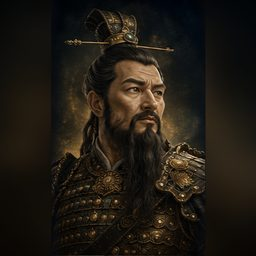
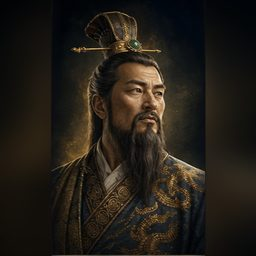
PORTRETY FINAL v2: poprawione zamiany braz<->zelazo (Grecy, Chinczycy) + komplet full/ — KANON + kopie 256px
Wg paczki Macieja 'najprosciej zaimplementowac wprost' — nadpisane bez porownywania,
zweryfikowane wzrokowo (Grecy-zelazo laury, Chinczycy-zelazo Qin Shi Huang).
Wejdzie do gry z deployem fali 3.

Claude-Session: https://claude.ai/code/session_01Fs7eokPtaxbQL7KGTXXeWS

Changed region(s): [[0.1875, 0.0312, 0.8125, 1.0], [0.6875, 0.3438, 0.75, 0.4062]]

diff --git a/docs/ux/claude-design/_dist/PORTRETY-ZELAZO-FINAL-v2-2026-07-23/brand-book/KANON/eksport/portraits-preview.html b/docs/ux/claude-design/_dist/PORTRETY-ZELAZO-FINAL-v2-2026-07-23/brand-book/KANON/eksport/portraits-preview.html
@@ -1,0 +1,57 @@
+<!DOCTYPE html>
+<html lang="pl">
+<head>
+<meta charset="utf-8">
+<title>Portrety władców — podgląd (1E)</title>
+<style>
+  body{margin:0;background:#0a0d14;color:#e8e0c8;font-family:'Segoe UI',Tahoma,sans-serif;padding:28px 36px}
+  h1{font-family:Georgia,serif;font-weight:600;font-size:22px;color:#e8d88a;margin:0 0 4px}
+  .sub{font-size:12px;color:#8a8070;margin-bottom:22px}
+  h2{font-family:Georgia,serif;font-weight:600;font-size:16px;color:#e8d88a;letter-spacing:.06em;margin:26px 0 14px;display:flex;align-items:center;gap:12px}
+  h2::after{content:"";flex:1;height:1px;background:rgba(232,216,138,.18)}
+  .grid{display:grid;grid-template-columns:repeat(5,1fr);gap:22px 16px;max-width:980px}
+  .cell{display:flex;flex-direction:column;align-items:center;gap:9px;text-align:center}
+  .med{width:112px;height:112px;border-radius:50%;overflow:hidden;border:2.5px solid #e8d88a;
+    box-shadow:0 0 18px rgba(232,216,138,.25),0 6px 16px rgba(0,0,0,.55),inset 0 0 0 1px rgba(0,0,0,.6);
+    background:#0a0d14}
+  .med img{width:100%;height:100%;object-fit:cover;display:block}
+  .med.you{border-color:#8fb6e0;box-shadow:0 0 18px rgba(58,106,208,.3),0 6px 16px rgba(0,0,0,.55)}
+  .med.foe{border-color:#e08a8a;box-shadow:0 0 18px rgba(200,64,64,.3),0 6px 16px rgba(0,0,0,.55)}
+  .nm{font-family:Georgia,serif;font-size:13px;color:#e8d88a}
+  .note{margin-top:30px;font-size:11.5px;color:#8a8070;max-width:820px;line-height:1.55;border-top:1px solid rgba(232,216,138,.14);padding-top:14px}
+  .note b{color:#c8b898}
+</style>
+</head>
+<body>
+<h1>Portrety władców — 15 cywilizacji</h1>
+<div class="sub">eksport/portraits/ · kwadraty pod medalion (kadr auto: 5% od góry komórki) · wersje pełne w portraits/full/ · mapa: portrait-map.json</div>
+
+<h2>Epoka Kamienia</h2>
+<div class="grid" id="g-kamien"></div>
+
+<h2>Epoka Brązu</h2>
+<div class="grid" id="g-braz"></div>
+
+<h2>Epoka Żelaza</h2>
+<div class="grid" id="g-zelazo"></div>
+
+<div class="note">
+<b>Obwódki medalionów:</b> w podglądzie wszystkie złote (neutralne). W grze kolor obwódki nadaje UI wg kontekstu: niebieska #3a6ad0 = Ty, czerwona #c84040 = wróg (pre-battle/bitwa), złota = dyplomacja/neutralna.<br>
+<b>Fallback:</b> brak portretu (epoka Antyku — TODO, czeka na arkusz) → medalion z ikoną cywilizacji wg civ-icon-map.json.
+</div>
+
+<script>
+var CIVS=[['grecy','Grecy'],['rzymianie','Rzymianie'],['chinczycy','Chińczycy'],['inkowie','Inkowie'],['zulusi','Zulusi'],['egipt','Egipt'],['sumer','Sumer'],['celtowie','Celtowie'],['germanie','Germanie'],['harappa','Harappa'],['hetyci','Hetyci'],['slowianie','Słowianie'],['babilonia','Babilonia'],['asyria','Asyria'],['fenicjanie','Fenicjanie']];
+['kamien','braz','zelazo'].forEach(function(ep){
+  var g=document.getElementById('g-'+ep);
+  CIVS.forEach(function(c,i){
+    var side = '';
+    var d=document.createElement('div');
+    d.className='cell';
+    d.innerHTML='<span class="med'+side+'"><img src="portraits/portrait-'+c[0]+'-'+ep+'.png" alt="'+c[1]+'"></span><span class="nm">'+c[1]+'</span>';
+    g.appendChild(d);
+  });
+});
+</script>
+</body>
+</html>

diff --git a/docs/ux/claude-design/_dist/PORTRETY-ZELAZO-FINAL-v2-2026-07-23/WYMIANA-UI-DESIGN.md b/docs/ux/claude-design/_dist/PORTRETY-ZELAZO-FINAL-v2-2026-07-23/WYMIANA-UI-DESIGN.md
@@ -1,0 +1,161 @@
+# DYSPOZYCJA — wymiana informacji
+
+Plik do dwustronnej komunikacji: **Agent / Maciej ⇄ Claude (projektant UI)**.
+Zasada: **append-only w sekcji „Log"** — nie nadpisujemy historii. Nowe polecenia dopisuj w „Dyspozycje przychodzące", ja odpowiadam w „Odpowiedzi / status".
+
+- Projekt: **The Game — Design System v1 · Painted Imperial (1E)**
+- Katalog roboczy: `brand-book/` (dokumenty + ekrany), `brand-book/eksport/` (tokeny, SVG, handoff)
+- **KANON (UX):** zapis WYŁĄCZNIE w `brand-book/`; status w `WYMIANA-UI-DESIGN.md`; nie tworzyć innych folderów; Maciej nie przenosi plików. Repo docelowe: `docs/ux/claude-design/01-propozycje-z-design/brand-book`.
+- Aktualizacja: 2026-07-01
+- **Protokół**: Maciej jest pośrednikiem. Gdy UX coś dopisze — Maciej mówi Claude **START**. Gdy Claude skończy — informuje Macieja, ten daje znać UX, by odczytał.
+
+---
+
+## 1. Status ogólny
+
+| Obszar | Stan |
+|--------|------|
+| Kierunek stylu | ✅ zatwierdzony: **1E** |
+| Brand Book v1 | ✅ gotowy |
+| Biblioteka ikon (Tier 1–5, 50 szt.) | ✅ gotowa |
+| Ekrany (menu → koniec) | ✅ gotowe |
+| Komponenty + Motion | ✅ gotowe |
+| Prototyp (klikalny przepływ) | ✅ podstawowy |
+| Eksport (tokeny + 14 SVG + HANDOFF) | ✅ gotowy |
+
+Wejście do przeglądu: `brand-book/The Game — Przegląd (1E).dc.html`
+
+## 2. Decyzje zamknięte (NIE zmieniać bez nowej dyspozycji)
+`1B` ciepłe złoto · `2C` Georgia+Segoe · `3C` ikony line w medalionach · `4C` przycisk outline/bevel · `5C` panel premium · `6C` chip + etykieta PL.
+Semantyka ikon: Praca=młotek · Żywność=kłos · Skarbiec=moneta · Nauka=sowa · Dyplomacja=pergamin+pióro · Porządek=waga · Zdrowie=kaduceusz · Bonus=prezent+gwiazda · Pokój=gołąb.
+
+## 3. Do zrobienia (backlog — priorytet malejąco)
+- [ ] Wariant **porażki** na ekranie końca gry
+- [ ] Domknięcie hubu: kafelki dla Kreator Kroki / Walka Warianty / Motion
+- [ ] Dokończenie linków prototypu (Dyplomacja→HUD, banery miast→Miasto)
+- [ ] Ujednolicenie ikony dyplomacji (HUD ⇄ biblioteka)
+- [ ] Eksport SVG Tier 3–5
+- [ ] Brand Book → PDF
+- [ ] Ekrany dodatkowe: badania (drzewko), wojsko (lista armii), handel, pauza/opcje
+
+## 4. Pytania otwarte (czekają na decyzję)
+- (brak — dopisz tutaj)
+
+---
+
+## 5. Dyspozycje przychodzące (od Agenta / Macieja)
+> Dopisuj nowe polecenia na górze, z datą. Format: `- [DATA] treść`
+
+- [2026-07-01] **KANON (UX):** zapis tylko w `brand-book/` (eksport `brand-book/eksport/`), status w `WYMIANA-UI-DESIGN.md`, nie tworzyć innych folderów, Maciej nie przenosi plików.
+
+## 6. Odpowiedzi / status (od Claude)
+> Odpowiadam pod każdą dyspozycją, z datą i statusem (przyjęte / w toku / zrobione).
+
+- [2026-07-23] **Zrobione: DRZEWKO v1.1 (werdykt Macieja).** Krawędzie usunięte W CAŁOŚCI (klatki A i C — zero linii/strzałek/mostków, badge i legenda krawędzi zdjęte); zależności wyłącznie opisowo (węzeł + karta węzła); „Ścieżka do X" działa na węzłach (podświetlenie łańcucha AND, reszta wygaszona). Wariant „kotwice AND" — zaniechany zgodnie z decyzją. Paczka `_dist/DRZEWKO-TECH-v1.1-2026-07-23` zawiera też: ponownie KANON-SYNC-6 (6 plików kanonu — poprzednio nie dojechały) oraz **STANDALONE inline** drzewka (React/Babel wbudowane — działa za proxy, bez unpkg).
+
+- [2026-07-23] **Zrobione: paczka DO-DESIGN-2026-07-23 (odpowiedź).** Zlecenie 1: PRE-BATTLE nakładka → kanon `.dc.html` (3 klatki: atak w polu / atak na miasto / obrona; twarde zasady zachowane: teren obowiązkowy, mapa czytelna — panele ~75%+blur, tylko realne akcje z preBattle.ts / cityAttackChoice.ts, obrona bez Wycofaj). Zlecenie 2: **eksport/ dosłany w paczce** (tokens.css/json · motion.css · icons/ · icon-mapy). Paczka: `_dist/PREBATTLE-TW-v1.1-2026-07-23`.
+
+- [2026-07-23] **Zrobione: DYPLOMACJA panel negocjacji v1.1 → KANON** (zatwierdzenie Macieja). Szczegóły w logu; paczka: `_dist/DYPLOMACJA-v1.1-2026-07-23`.
+- [2026-07-23] **Zrobione: POLE BITWY — TW v5.** 6 klatek w `brand-book/KANON/mockupy/The Game - C06 Pole bitwy odswiezenie (1E).dc.html`; kanon zaktualizowany (CANON.md); nota dla integratora: `brand-book/DESIGN-do-UI_POLE-BITWY-TW-v5.md`.
+- [2026-07-01] Utworzono ten plik dyspozycji. Czekam na polecenia.
+- [2026-07-01] **Do Agenta UX:** Cześć. Design System **1E (Painted Imperial)** jest gotowy — Brand Book, 50 ikon (Tier 1–5), komplet ekranów (menu→koniec), komponenty, motion, eksport (tokeny + 14 SVG + HANDOFF). Wszystko w `brand-book-1E/`, wejście: `The Game — Przegląd (1E).dc.html`. Backlog w sekcji 3. Pisz dyspozycje w sekcji 5 — odpowiadam tutaj.
+- [2026-07-01] **Przyjęte: KANON.** Ścieżki w projekcie zaktualizowane do `brand-book/`. Uwaga techniczna: nie mogę zapisywać wprost na dysk `C:\` — zapisuję w projekcie. Żeby pliki lądowały w kanonie bez ręcznego przenoszenia potrzebny **GitHub** (commit → `git pull`). Do decyzji Macieja/UX.
+
+---
+
+## 7. Log zmian (append-only)
+- 2026-07-23 · **PORTRETY — medaliony z obwódką 1E** ✅ — nowy wariant `eksport/portraits/medaliony/portrait-{civ}-{epoka}-medalion.png` (45×: kamien/braz/zelazo × 15 civ): koło na przezroczystym tle, winieta przy krawędzi, złota obwódka kanonu (#6a5212 rant · #e8d88a pierścień · akcent #f4e6a8). Kwadraty = surowiec pod obwódki kontekstowe UI; medaliony = gotowe do wstawienia. Dołożone do paczki PORTRETY-ZELAZO FINAL.
+- 2026-07-23 · **PORTRETY — korekta Macieja: swap Brąz↔Żelazo dla Greków i Chińczyków** ✅ — zamienione medaliony i wersje full (nowe full odtworzone 1:1 z arkuszy źródłowych); mapa bez zmian (te same ścieżki). Paczka nakładkowa: `_dist/PORTRETY-SWAP-2026-07-23` (8 PNG — nadpisać po wgraniu PORTRETY-ZELAZO).
+- 2026-07-23 · **PORTRETY ŻELAZA** (Zlecenie 6, część 1/2) ✅ — arkusz Gemini od Macieja pocięty 1:1 jak Kamień/Brąz (poz. 2 = Rzymianie, potwierdzone): 15× medalion 418×418 (boki wtopione, nakrycia głów całe) + 15× full 251×418; `portrait-map.json`: klucz `zelazo` wypełniony, epoka `antyk` dopisana (null — czeka na arkusz, część 2/2); `portraits-preview.html`: trzeci rząd. Paczka: `_dist/PORTRETY-ZELAZO-2026-07-23`.
+- 2026-07-23 · **IKONY 32 TECHNOLOGII** (Zlecenie 7) ✅ — komplet: `eksport/icons/tech/tech-<slug>.svg` (32 szt., line-art 1E, stroke currentColor, viewBox 24, jak icons/units) + `eksport/tech-icon-map.json` (klucz = id z tech.json, pole name = nazwa PL) + `eksport/tech-icons-preview.html`. Użycie: węzły drzewka + panel badań. Paczka: `_dist/TECH-IKONY-32-2026-07-23`. · Do paczki CUDA-SWIATA-v1 dołożony STANDALONE (wymóg proxy).
+- 2026-07-23 · **CUDA ŚWIATA — galeria Antyku v1** (Zlecenie 4, TURA 2) — nowy ekran: 19 cudów 1:1 z `gra/data/wonders.json` w pasmach epoki wejścia (Kamień 2 · Brąz 9 · Żelazo 8), dostęp E/R, wszystkie stany (dostępny · zablokowany-brak-techa · w budowie z postępem · nasz ✓ [not. ukοńczenia] · przepadł · ekskluzywny-cudzy · zbudowany-cudzy); klatka B: karta cudu ×3 stany (koszt Pracy, tury, wymogi ✓/✗, efekty ×każde-miasto, reguła atrakcji po Średniowieczu); klatka C: powiadomienia nasz-vs-cudzy (racing przepada). Bez emoji, tekstowe efekty. Plik: `KANON/mockupy/The Game - Cuda swiata v1 (1E).dc.html`. Parkowane ep.4+ poza galerią.
+- 2026-07-23 · **DRZEWKO TECHNOLOGII — SIATKA v1.1** ✅ KANON — werdykt Macieja: krawędzie NIECZYTELNE → usunięte wszystkie linie/strzałki/mostki + badge przecięć + legenda krawędzi; drzewko = siatka węzłów w pasmach epok, zależności OPISOWO (powody blokad na węzłach, AND ✓/✗ na karcie węzła); ścieżka do X = podświetlenie węzłów. Karty węzłów BEZ ikon epok — tylko nazwa odkrycia (uwaga Macieja; docelowo, osobnym zleceniem: ikona per technologia). Plik: `KANON/mockupy/The Game - Drzewko technologii siatka v1.1 (1E).dc.html`; graf v1 = stare. + STANDALONE inline (vendored runtime w jednym pliku) na problem proxy/unpkg.
+- 2026-07-23 · **DRZEWKO TECHNOLOGII — GRAF v1** (Zlecenie 3, TURA 2) — nowy ekran grafu całego drzewa: 32 technologie 1:1 z `gra/data/tech.json` (oś liniowa Poziom 1–9, pasma Kamień|Brąz|Żelazo), 4 stany węzłów (odkryta/dostępna/w trakcie z pierścieniem %/zablokowana z powodem), krawędzie magistralowe per-źródło + korytarz międzyepokowy, minimalizacja przecięć (permutacje per gutter) + MOSTKI na rezydualnych przecięciach (jednoznaczność 100%, badge z licznikiem), klatka B: karta węzła ×3 stany, klatka C: zoom/pan + pasek epok + minimapa + ścieżka do „Sztuka wojenna". Plik: `KANON/mockupy/The Game - Drzewko technologii graf v1 (1E).dc.html`. „Ekran Badania" zostaje jako panel wyboru badań.
+- 2026-07-23 · **PORTRETY WŁADCÓW — Kamień + Brąz** ✅ — 30 portretów (15 cywilizacji × 2 epoki, MJ wg SPEC-PORTRETY-WLADCOW-MJ.md) pokrojone z arkuszy, kwadraty pod medalion (kadr 5% od góry komurki) + wersje pełne w `eksport/portraits/full/`. Nowe: `eksport/portraits/` · `eksport/portrait-map.json` (civ × epoka → plik; żelazo TODO; fallback = ikona cywilizacji) · `eksport/portraits-preview.html` (medaliony 1E, warianty obłódek Ty/wróg). Paczka: `_dist/PORTRETY-WLADCOW-2026-07-23`.
+- 2026-07-23 · **PRE-BATTLE — nakładka na mapie v1.1** ✅ KANON — dopracowanie makiety v1 Macieja/integratora (DO-DESIGN-2026-07-23): panele ~75% + backdrop-blur (mapa świata czytelna), kanoniczne CTA (złoty primary #f0dc88→#b99a28, czerwony Wycofaj, hover-glow), pasek szans jak w TW-v5 (gradient + złoty marker), znacznik hexa miasta w klatce B, pulsowanie znaczników, kbd-chipy skrótów + badge 1/2 na kartach Oblegaj/Szturm. 3 klatki w 1 pliku: `KANON/mockupy/The Game - PreBattle nakladka v1.1 (1E).dc.html`. Stary pełnoekranowy C-01 Pre-bitwa v3 = zastąpiony. Zlecenie 2 (eksport/) dosłane w paczce.
+- 2026-07-23 · **DYPLOMACJA — panel negocjacji v1.1** ✅ ZATWIERDZONA DO KANONU — makieta Macieja (TW:WH3-adapt) + poprawki logiczne/stylistyczne: spójne blokady „wymaga X (masz Y)" (Sojusz obronny i Żądanie trybutu zablokowane zgodnie z wartościami), Umowa handlowa oznaczona „już zawarta", relacje renderowane raz (karta rozmówcy „Relacje z Tobą"), u gracza Skarbiec, bilans oferty Zyskujesz/Oddajesz + „zwrot po 5 turach", tło granat 1E, złoty primary #f0dc88→#b99a28, hovery. Plik kanonu: `KANON/mockupy/The Game - Dyplomacja panel negocjacji v1.1 -1E-.dc.html` (stara „Ekran Dyplomacja" zostaje jako lista frakcji).
+- 2026-07-23 · **POLE BITWY — TW v5** ✅ — nowy kanon pola bitwy wg WYTYCZNE v5 (styl TW:WH3, roster w LEWYM pionowym panelu — żelazna zasada). Jeden plik, 6 klatek: bitwa ręczna / AUTO (roster ukryty) / rozstawianie + C-23 Szczegóły bitwy v2 (2 kolumny, Zniszczone #ff7b7b / Rozbite #ffd54a / Ocalałe #7ad0a0) + C-12 Koniec bitwy (Zwycięstwo/Porażka + hint „ta sama armia · pełne HP") + C-09 v5 stany kart (pusty slot / rout 50% / martwa 40%) z tooltipem. Nowe elementy TW: portrety dowódców z pierścieniem HP, zegar bitwy (Georgia), pasek przewagi ze złotym znacznikiem, banery nad oddziałami (chorągiewka + HP/morale + maszt, medalion dowódcy grupy), bogaty tooltip (Postawa/Świeżość/Grupa + Zdrowie/Morale/Wigor/Amunicja + efekty terenu), tempo+pauza+AUTO przy minimapie, ustawienia (muzyka/dźwięk/pomoc) pod kołem zębatym obok „Wycofaj się". Oprawa: panele ~70% + blur, toolbar ikonowy wyśrodkowany, wszystkie ikony z podpisem na hover. DECYZJE Macieja: strzałka „↓" przy „Ty" USUNIĘTA; cluster liczb NIE lustrzany. Zastępuje wizualnie: C06 v4 / C07 v2 / C23 v1 / C12 v3.
+- 2026-07-05 · **POLE-BITWY v5 GAP** ✅ — GAP-01 C-23 Szczegóły bitwy (pełnoekranowy, 2 kolumny, Zniszczone/Zrootowane/Ocalałe), GAP-02 C-12 Koniec bitwy v3 (Zwycięstwo/Porażka/podpowiedź + 3 przyciski), GAP-03..06 popupy deploy (Formacja/Konnica/Linie/Taktyka v2 Obrona-Atak-Szturm-Ostrzał). Paczka `POLE-BITWY-v5-gap-2026-07-05.zip`. P2/P3 (GAP-07..10) — kolejny START.
+- 2026-07-04 · **POLE-BITWY poprawki v4.1** ✅ — popup Strategia w 1E (nowy `C06 Popup Strategia v4`): dropdowny w złotej szacie (koniec z granatowym stylem przeglądarki), mini-medaliony typów, scroll 1E, sticky „Skopiuj z priorytetów armii". Notatki dla lane: top-bar cluster gap, nagłówki grup „Grupa N · liczba", puste sloty. ZIP: POLE-BITWY-poprawki-v4.1-2026-07-04.
+- 2026-07-04 · **C01-v3-sync-kanon — SIGN-OFF** ✅ — sync mockupu C-01 Pre-bitwa v3 z kanonem preBattle.ts. Wszystkie elementy zgodne (medaliony #3a6ad0/#c84040, roster SVG, szansa % + pasek + modyfikatory ▲/▼, VS, 3 przyciski). Zero luk, zero emoji. Meldunek `DESIGN-do-UI_C01-v3-sync.md`. Mockup = zamrożona referencja, lane nie portuje.
+- 2026-07-04 · **POLE-BITWY-HUD-v4** ✅ — wg spec MASTER (GitHub). C06 v4 (3 klatki: Deploy/AUTO/R+roster, rail 56px ×3, pasek mocy poziomy, minimapa, dolny toolbar, popup Taktyka, Start walki czerwony CTA), C09 v4 (lewy roster 368px w kontekście mapy + mini-klatka scroll >30 kart). Karta: SVG+HP+morale+badge+obwódka niebieska+martwy/routed. Zero emoji. Handoff + MANIFEST. ZIP: POLE-BITWY-HUD-v4-2026-07-04.
+- 2026-07-04 · **C04-C05-A19 oblężenie mapa świata** ✅ — 3 modale: C-04 Atak na miasto (Oblężaj/Szturm, karty + skróty), C-05 Panel oblężenia (mapa w tle + panel prawy + machiny), A-19 Miasto zdobyte (pusty garnizon, SVG zamiast 🏛). Zero emoji, kolory akcji wg briefu (Oblężaj #c87840 / Szturm #3a6ad0). Handoff `DESIGN-do-UI_C04-C05-A19-v2.md`.
+- 2026-07-04 · **C04-C05 mapa-v2** ✅ — potwierdzone jako HUD-only wokół placeholdera pola 3D (bez malowanych murów/pola, spójne z C-06 v4/C-07). C-04 Oblężenie: górny pasek, integralność murów (L), siły oblężnicze (P), akcje Ostrzał/Czekaj/Szturm. C-05 Szturm muru: punkty szturmu (L), obrona muru (P), akcje Drabiny/Wieża/Szturm przez wyłom.
+- 2026-07-04 · **W3 v3.1b — sign-off** ✅ — (A) Surowce = stopka kolumny (ikona+nazwa only, wspólna pod każdą zakładką), Spichlerz bez surowców w środku karty. (B) Menu gry (☰): Wróć do gry/Zapisz/Wczytaj/Nowa gra/Menu główne; Esc→mapa świata (nie modal Pauza); Wiki = osobny przycisk toolbar. Handoff `DESIGN-do-UI_miasto-w3-v3.md` sekcja v3.1b.
+- 2026-07-03 · **W3-miasto v3** ✅ — nowy `Ekran Miasto W3 v3 (1E)`, 4 klatki (Spichlerz/Wzrost, Budowa, chrome mapy 3D, Esc) odwzorowane 1:1 z playtestu (screeny baseline w repo). Uwaga: baseline gry UŻYWA „/t" — v3 trzyma „/t" (rewert wcześniejszego usunięcia). Rail 7 medalionów, „i SZCZEGÓŁY", slider Wzrost↔Armia, stopka „Surowce w zasięgu".
+- 2026-07-03 · **Miasto Zakładki W3 v2 — przebudowa 1:1 ze screenshotami** ✅ — po imporcie 8 screenów z repo (GitHub): rail 7 medalionów, każda klatka z tytułem + „i szczegóły", pigułkami, suwakami i stopką „Surowce w zasięgu" (Bydło/Glina/Koń/Sól). Zawartość zgodna z grą: Wzrost ludności (Netto/Bufor, suwak Wzrost↔Armia), Podział handlu (Skarb/Nauka/Zamożność/Korupcja + 3 suwaki + Zamożność), Podział pracy (suwak 70/30 Miasto↔Pula), Porządek (Szczęście/Prawo/Łącznie 58% + baner Napięcie), Zdrowie (Plusy/Minusy), Kultura (0/100, granice), Religia (kult 100%). Zero emoji. Plik `Miasto Zakładki W3 v2 (1E)`.
+- 2026-07-03 · **Miasto Zakładki W3 v2** ✅ — 7 klatek prawego panelu w stylu 1E (SVG, suwak podziału handlu, kropki przydziału pracy, typografia), wspólna stopka „Surowce w zasięgu" na każdej klatce. Zastępuje cz1/cz2 (przestarzałe). Semantyka do potwierdzenia ze screenshotami baseline. Plik `Miasto Zakładki W3 v2 (1E)`.
+- 2026-07-03 · **C-01 Pre-bitwa v3 — ZATWIERDZONA** jako kanoniczny pre-battle (zastępuje v2). Powód (Maciej): kolumny rosteru skalują się przy większych/różnorodnych armiach; medaliony dowódców gotowe pod system generałów (nazwiska liderów wojsk). Plik `The Game - C01 Pre-bitwa v3 (1E).dc.html`. v2 pozostaje jako archiwum.
+- 2026-07-03 · **C-05 Szturm muru v2** ✅ — HUD szturmu wokół pola 3D: górny pasek (Szturmujący niebieski VS Obrońcy muru czerwony + paski), lewy panel punkty szturmu (wyłom bramy aktywny, drabiny, wieża oblężnicza), prawy panel obrona muru (obrońcy/olej/łucznicy), dolny pasek akcji (Drabiny / Wieża / Szturm przez wyłom). Domyka Grupę C (walka). Plik `C05 Szturm muru v2 (1E)`.
+- 2026-07-03 · **C-04 Oblężenie v2** ✅ — HUD oblężenia wokół pola 3D: górny pasek (Oblężenie Kapui, Oblegający niebieski VS Garnizon czerwony), lewy panel integralność murów (42%, wyłom, −8%/turę), prawy panel siły oblężnicze (katapulty/tarany/piechota + garnizon), dolny pasek akcji (Ostrzał / Czekaj / Szturm). Plik `C04 Oblezenie v2 (1E)`.
+- 2026-07-03 · **C-12 Koniec bitwy v2** ✅ — ekran zwycięstwa: emblemat wieńca, „ZWYCIĘSTWO" (Georgia), 3 karty statystyk (straty własne niebieskie / straty wroga czerwone / łupy złote), pas „Bohater bitwy" z awansem, akcje Szczegóły / Powrót do mapy. Styl 1E. Plik `C12 Koniec bitwy v2 (1E)`.
+- 2026-07-03 · **C-09 Karty jednostek v2** ✅ — układ w stylu Total War: roster 3 rzędy, kolejność konnica (niebieski) → piechota (złoty) → łucznicy (bursztyn), mini-karty z ikoną/HP/paskiem; po lewej karta wybranej jednostki ze statystykami (atak zwarcie, bonus szarży, obrona, pancerz, morale, prędkość). Plik `C09 Karty jednostek v2 (1E)`.
+- 2026-07-03 · C-07 poprawki: minimapa/tooltip odsunięte od pasków morale; usunięty duplikat prędkości (panel C-10) — zostaje tylko badge ×4 w górnym pasku, nie zasłania etykiety ATK.
+- 2026-07-03 · **C-07 Pole HUD bitwy v2** ✅ — HUD fazy walki wokół pola 3D: C-08 góra (Tura ×4, morale ATK niebieski VS OBR czerwony, straty, Pomiń/Wyjście), C-10 prędkość, C-11 log Ostatnie starcia (3 wpisy), C-12 pionowe paski morale boki, C-17 minimapa, C-18 tooltip jednostki, C-09 dolny pasek komend zaokrąglony (P/S/R/STOP/W/H/M/POMIŃ/ESC, SVG bez emoji). Plik `C07 Pole HUD bitwy v2 (1E)`.
+- 2026-07-03 · **C-06 Deployment v2 (rev)** ✅ — poprawka wg uwagi: pole = render 3D (placeholder, bez zmian), zaprojektowana tylko OPRAWA HUD 1E: górny pasek (Przygotowanie ×32, ATK vs OBR, Pomiń/Wyjście), lewy panel prędkość/wiek + pasek HP, Ostatnie starcia, minimapa, panel zaznaczonych (40, HP/atak/obrona, Stój/Wyc/Grupuj/F1-3), centralny panel Faza rozstawiania (F1/F2/F3 + Reset/Grupuj/Start walki), dolny pasek sterowania (P/R/Stop/H/M/Pomiń/ESC). Plik `C06 Deployment v2 (1E)`.
+- 2026-07-03 · **C-06 Deployment v2** ✅ — pole z góry (lewa strefa ATK jaśniejsza + siatka heksów, prawa mgła wojny, złota linia środkowa), etykiety Twoja/Wroga strefa, rozstawione żetony + puste sloty; dolny panel 1E: Faza rozstawiania + hint, formacje F1 Dystans / F2 Melee / F3 Oblężenie (SVG), akcje Reset / Grupuj / Start walki (primary). Plik `C06 Deployment v2 (1E)`.
+- 2026-07-03 · **C-02 Rozstawienie v2** ✅ — plansza rozstawienia: strefy (obrońca góra / gracz dół), żetony wroga, podświetlone sloty gracza, lewy panel jednostek do rozstawienia (drag), prawy panel taktyki/terenu, akcje Wstecz / Losowo / Rozpocznij bitwę. Plik `C02 Rozstawienie v2 (1E)`.
+- 2026-07-03 · **C-01 Pre-bitwa v2** ✅ — redesign UI walki (Grupa C, ekran 1): dwie strony (Rzym atakujący / Kapua obrońca) z listą jednostek, środkowa prognoza (68% szansy), modyfikatory (przewaga/mury/wyżyna), akcje Wycofaj / Rozegraj ręcznie / Atakuj-auto. Styl 1E, bez emoji. Plik `C01 Pre-bitwa v2 (1E)`.
+- 2026-07-03 · **W3-miasto zawartość cz.2** ✅ — `Miasto Zakładki W3 cz2 (1E)`: Spichlerz (magazyn+bilans żywności), Praca (przydział obywateli), Kultura (granice+źródła), Religia (kult+wiara). Komplet 9/9 zakładek railu.
+- 2026-07-03 · **W3-miasto zawartość** ✅ — `Miasto Zakładki W3 (1E)`: treść zakładek railu — Rekrutacja (jednostki+staty), Handel (dochód+szlaki), Porządek (zadowolenie+czynniki), Zdrowie (zdrowotność+wzrost).
+- 2026-07-03 · **W3-miasto** ✅ — nowy `Ekran Miasto W3 (1E)`: 9-medalionowy rail (budowa, rekrutacja, spichlerz, handel, praca, porządek, zdrowie, kultura, religia), dim opaque, górny pasek zasobów + zielony Wiki + X. Centrum: produkcja + budowle; prawy panel szczegółów.
+- 2026-07-03 · **szata-sync Ekran Miasto** ✅ — dim opaque (mapa + dolny chrome ukryte), górny pasek + zielony przycisk Wiki widoczne. Domyka szata-sync 2026-07-03.
+- 2026-07-03 · **szata-sync cd.** ✅ — nowy plik `HUD Panele stany (1E)`: klatki C0 (pusty/ukryty), C1 (heks — zasoby pola, ulepszenia), C2 (jednostka — HP/ruch/staty) + panel **Wiki 340px** (zielony #a8c878, szukaj + kategorie: budynki/jednostki/technologie/tereny).
+- 2026-07-03 · **szata-sync** ✅ — HUD Mapy layout zaktualizowany do stanu gry: usunięto banery liderów (D16=A) i stały placeholder kontekstowy (D17=A), dodano przycisk Wiki (#a8c878) + `ui-wiki.svg`, Wydarzenia przesunięte nad stos tury (bottom:172px), toolbar 5 medalionów. HANDOFF: sekcja „Szata sync 2026-07-03".
+- 2026-07-03 · **HUD Mapy — layout (1E)** ✅ zatwierdzony. Pełny ekran gry 1920×1080: strefy stałe (A pasek zasobów, A2 MOC centralnie, A3 epoka/menu, B toolbar, D banery liderów, E minimapa, G Wykonaj/Zakończ turę), kontekstowe (C panel wyboru, F akcje jednostki), tymczasowe (H Wydarzenia). Plik `The Game — HUD Mapy layout (1E).dc.html`. Dla Cursora: to docelowy rozkład HUD mapy — zastępuje luźny HUD Kit.
+- 2026-07-02 · **EKRANY HERO — dyspozycja dla Cursora.** Menu Hero + Intro Hero (bez opisu) + `assets/hero-menu.png`, `assets/hero-intro.png`. Zastępują dotychczasowe menu i intro. Kroki kreatora 2–5 bez zmian.
+- 2026-07-02 · **Ekran Menu Hero** — nowy wariant menu: kolumna menu po lewej (ciemne tło), grafika hero (`assets/hero-menu.png`) po prawej z gradientem-przejściem w czerń. Plik `The Game — Ekran Menu Hero (1E).dc.html`. Wymaga `brand-book/assets/hero-menu.png`.
+- 2026-07-02 · **PODMIANY DO WDROŻENIA (dla Cursora)** — najnowsze wersje w `brand-book/eksport/`:
+  | Element w grze | Podmień na plik |
+  |---|---|
+  | Emblemat kółka na ekranie „NOWA GRA"/kreator (intro) | `eksport/icons/menu-emblem.svg` (gwiazda) — podmienić TYLKO wewnętrzny SVG, ramka/glow bez zmian |
+  | Epoka Kamienia (krok 2) — kłos/litera | `eksport/icons/epochs/epoch-kamien.svg` (młot bojowy, bez ziemi) |
+  | Epoka Brązu | `eksport/icons/epochs/epoch-braz.svg` (miecz liściasty) |
+  | Epoka Żelaza | `eksport/icons/epochs/epoch-zelazo.svg` (skrzyżowane miecze) |
+  | Cywilizacja Rzymianie | `eksport/icons/civilizations/civ-rzymianie.svg` (tarcza scutum) |
+  | Cywilizacja Chińczycy | `eksport/icons/civilizations/civ-chinczycy.svg` (mianguan) |
+  | Cywilizacja Sumerowie | `eksport/icons/civilizations/civ-sumer.svg` (ziggurat) |
+  | Ustawienia krok 4 (litery Tr/Mx/Sw/Tp/MP/Cy) | `eksport/icons/settings/sett-*.svg` wg `setting-icon-map.json` |
+  | Miasta-państwa (ustawienia) | `eksport/icons/settings/sett-city-states.svg` (plan miasta z góry) |
+  Zasada: podmiana samego SVG w istniejących medalionach; nie ruszać map JSON poza wymienionymi.
+- 2026-07-02 · **W1f** ✅ — 6 ikon ustawień kreatora (krok 4): `eksport/icons/settings/` sett-difficulty (waga), sett-map-size (heksy+zoom), sett-world-type (glob), sett-game-speed (klepsydra), sett-city-states (kolumna+proporzec), sett-civ-types (3 kółka) + `setting-icon-map.json`. Epoki/cyw/mapy nietknięte.
+- 2026-07-02 · **W1e-rev3** ✅ — epoch-kamien = kłos pszenicy (rewolucja agrarna), epoch-braz = miecz liściasty, epoch-zelazo bez zmian; civ-rzymianie = tarcza scutum (umbo + grzbiet), civ-chinczycy = mianguan (cienka długa deska, frędzle przód/tył równe). Mapy JSON nietknięte.
+- 2026-07-02 · **W1e-rev** ✅ — epoch-kamien = młot kamienny (nie namiot), epoch-braz = jeden miecz liściasty (nie ingot), epoch-zelazo bez zmian. Mapa i pozostałe pliki nietknięte.
+- 2026-07-02 · **W1b-rev2** ✅ — civ-sumer przerysowany: schodkowy ziggurat (3 tarasy + centralne escalinatas ze stopniami + kapliczka na szczycie). Tylko ten 1 plik; reszta ikon i mapy nietknięte.
+- 2026-07-02 · **W1b-rev + W1e** ✅ — civ-sumer poprawiony na ziggurat (nie piramida). Nowe ikony epok: `eksport/icons/epochs/` (epoch-kamien=osada, epoch-braz=ingot+trzon, epoch-zelazo=miecze) + `epoch-icon-map.json` (klucze kamien/braz/zelazo, osobny rejestr). HANDOFF: sekcja Epoki. civ-icon-map + icons-manifest nietknięte.
+- 2026-07-02 · **W1b** ✅ — medaliony cywilizacji (3C line, jak kreator, NIE monogramy): `eksport/icons/civilizations/` 15 + `civ-default` (@24) + `civ-icon-map.json`. Preview `civ-icons-preview.html`. HANDOFF zaktualizowany. Wizualna weryfikacja OK (grecy=świątynia, rzymianie=wieniec, chinczycy=pagoda, inkowie=słońce, zulusi=tarcza, egipt=piramida, sumer=zikkurat, celtowie=triskelion, germanie=topór, harappa=byk, hetyci=dwugłowy orzeł, słowianie=kołowrót, babilonia=brama, asyria=lamassu, fenicjanie=okręt).
+- 2026-07-02 · **Dyspozycja 15 SVG menu** ✅ — `eksport/icons/menu/` 15 id × (24+40) = 30 plików: 7 z mockupu (play, campaign, multiplayer, settings, more, exit, emblem-mini) + 8 nowych (load, save, credits, language, audio, controls, achievements, info). Dopisane do `icons-manifest.json` (tier menu) + `menu-icons-preview.html`. Weryfikacja wizualna OK.
+- 2026-07-01 · **PACZKA FINAL** ✅ — eksport Tier 3–7 (24/40), buildings(13)/units(12)/improvements(10)/resources-map(6) @24, menu-emblem, 3 manifesty (icons-manifest, building-icon-map, unit-icon-map), 4 CSS (tokens+menu-background+motion+menu-components), HANDOFF ekran→plik camelCase. ~160 SVG. DESIGN ZAMKNIĘTY.
+- 2026-07-01 · Poprawka handoff: mapa ekran→plik na `gra/src/ui/*.ts` (nie `.tsx`). DYSPOZYCJA = DONE + „Design zamknięty" potwierdzone. Paczka finalna do integracji.
+- 2026-07-01 · **DESIGN ZAMKNIĘTY.** Nawigacja domknięta: „← HUD" (Miasto, Walka), „← Przegląd" (Menu, Koniec Gry), HUD menu→Przegląd. HANDOFF.md v2 + changelog. DYSPOZYCJA = all DONE. Dostawa: folder `brand-book/` w korzeniu zip.
+- 2026-07-01 · `eksport/HANDOFF.md` → **v2**: mapa ekran→plik TS, semantyka bez pergaminu (Dyplomacja=uścisk dłoni), tokeny FROZEN, warianty ikon tier1/tier2 24/40. 2C + D1-2 + D1-5 potwierdzone w plikach.
+- 2026-07-01 · 2C dokończone: „← Przegląd" na Kreator Kroki + Walka Warianty (pozostałe ekrany flow mają już nav / „← HUD").
+- 2026-07-01 · MUST domknięty: D1‑2 (linki prototypu — done), D1‑5 (Badania wg tech.json + Wojsko — done), **D1‑6 HANDOFF v2** (mapa ekran→komponent TS + zasady integracji), **D1‑7 freeze tokens** (tokens.css/json oznaczone FROZEN v1.0). Paczka gotowa do integracji.
+- 2026-07-01 · Tura 2C ✅ back-linki „← Przegląd" na ekranach‑dokumentach z kafelków: Design System v1, Ikony (biblioteka), Komponenty (Motion + Koniec Porażka miały już wcześniej; ekrany flow mają własną nawigację + „← HUD").
+- 2026-07-01 · START D1‑4 ✅ Tier 2 SVG 5×2 → `eksport/icons/tier2/`: tb-cities, tb-science (=res-science), tb-diplomacy (uścisk dłoni), tb-army, tb-build (=res-work). 40px sw2 + 24px sw1.5.
+- 2026-07-01 · [Design] Tura 2 A/B/C = DONE (w paczce). START D1‑3 ✅ Tier 1 SVG 9×2 → `eksport/icons/tier1/` (40px sw2 + 24px sw1.5): food, work, treasury, science, culture, religion, population, influence, settlements.
+- 2026-07-01 · **[Design] → [Cursor]: odpowiedź ws. paczki.** W projekcie folder `brand-book/` jest KOMPLETNY: 20× `.dc.html` (hub Przegląd + wszystkie ekrany E + Badania + Wojsko), `support.js`, `DYSPOZYCJA.md`, `HANDOFF-CLAUDE-CODE.md`, `eksport/` (`tokens.css`, `tokens.json`, `HANDOFF.md`, `icons/` = 34 SVG w tym `tb-diplomacy.svg`).
+  - **Diagnoza:** pobrany „Ulepszenie infografik.zip" = nazwa PROJEKTU → poprzednia karta pakowała cały projekt, nie sam folder. Teraz wygenerowana paczka pakuje **tylko `brand-book/`**.
+  - **Do zrobienia po Waszej stronie:** pobrany plik zapisać jako `docs/ux/claude-design/_staging/inbox/brand-book.zip` (jeśli pobierze się pod nazwą projektu — zmień nazwę na `brand-book.zip`). W środku ma być bezpośrednio zawartość folderu `brand-book/` (nie zagnieżdżony projekt).
+  - Uwaga: zapis do repo/dysku jest po Waszej stronie — to środowisko ma GitHub tylko do odczytu.
+- 2026-07-01 · Hub domknięty o kafelki: Badania · drzewko, Wojsko · armie.
+- 2026-07-01 · D1‑5 ✅ ekran Badania (drzewko wg tech.json z repo: Kamień K0–K1 + Brąz B0–B3, koszty/prereqi) + ekran Wojsko (lista armii I Legion / II Kawaleria + panel jednostki). Nowe: `The Game — Ekran Badania (1E).dc.html`, `The Game — Ekran Wojsko (1E).dc.html`.
+- 2026-07-01 · [Design] Tura 2 A/B/C potwierdzone jako GOTOWE (A uścisk dłoni HUD=SVG, B porażka #c84040 + link huba, C back-linki ← Przegląd/HUD). Wygenerowano `brand-book.zip` do pobrania. GitHub tu jest read-only — commit/push po stronie Cursora.
+- 2026-07-01 · D1‑4 ✅ eksport SVG domknięty: +7 (chip-crate, chip-map, chip-trend-up, chip-death, chip-garrison, chip-manpower, dip-peace). Razem 34 ikony w `eksport/icons/`.
+- 2026-07-01 · D1‑4 (część 2): +6 ikon SVG (ui-denied, ui-accepted, dip-war, chip-warning, chip-heart, chip-star). Łącznie w `eksport/icons/`: core Tier 1–2 + waga/kaduceusz + 13 UI/chip/dip.
+- 2026-07-01 · D1‑4 (część): eksport 7 ikon UI/meta do `eksport/icons/` (ui-menu, close, play, pause, check, lock, end-turn). Reszta Tier 3–5 do dokończenia.
+- 2026-07-01 · D1‑2 ✅ domknięte: HUD toolbar Dyplomacja → ekran Dyplomacji; baner miasta → Panel miasta; Dyplomacja → back‑link HUD.
+- 2026-07-01 · D1‑2: HUD baner miasta → link do Panelu miasta.
+- 2026-07-01 · D1‑2 (część): Dyplomacja → back‑link „← HUD". CZĘŚĆ E: tura 2 A→C zamknięta.
+- 2026-07-01 · Sync: BEZ GitHub — Maciej po turze pobiera `brand-book/` do OneDrive. Moja rola = zapis w projekcie + log.
+- 2026-07-01 · TURA 2 A→C GOTOWE: A uścisk dłoni (HUD=SVG), B E‑15b `#c84040` + link huba, C back‑linki „← Przegląd" (Koniec Porażka, Motion). Ekrany z własną nawigacją (Menu/Kreator/HUD/Miasto/Dyplomacja/Walka) mają przepływ krok‑po‑kroku.
+- 2026-07-01 · TURA 2: A ✅ HUD toolbar dyplomacja = identyczna geometria co `eksport/icons/tb-diplomacy.svg` (uścisk dłoni). B ✅ E‑15b akcent `#c84040` + link z huba. C ✅ Koniec Porażka: back‑link „← Przegląd". C ⏳ back‑linki dla Motion / Kreator Kroki / Walka Warianty — następna tura.
+- 2026-07-01 · SESJA AUTONOMICZNA — decyzje UX: **Dyplomacja = uścisk dłoni** (revert z pergaminu), E‑15b = `#c84040`, zero emoji.
+- 2026-07-01 · D1‑1 ✅ hub domknięty (kafelki: Kreator Kroki, Walka Warianty, Motion, Koniec Porażka).
+- 2026-07-01 · D1‑3 ✅ dyplomacja→uścisk dłoni w bibliotece + Brand Book + `eksport/icons/tb-diplomacy.svg`. ⚠ HUD toolbar (inny wariant) — do dokończenia.
+- 2026-07-01 · ⚠ D1‑7 (commit do kanonu na dysku) wymaga podłączenia GitHub — niewykonalne z mojej strony bez autoryzacji.
+- 2026-07-01 · START: dodano wariant **porażki** końca gry — `brand-book/The Game — Koniec Porażka (1E).dc.html`.
+- 2026-07-01 · Na prośbę UX: folder `brand-book-1E/` → `brand-book/` (jeden folder). Wejście: `brand-book/The Game — Przegląd (1E).dc.html`.
+- 2026-07-01 · Utworzono `brand-book-1E/` i przeniesiono wszystkie pliki 1E + eksport.
+- 2026-07-01 · Zbudowano A–E: prototyp, kroki kreatora, warianty walki, eksport, motion.
+- 2026-07-01 · Komplet ekranów + Brand Book + biblioteka 50 ikon (1E).

diff --git a/docs/ux/claude-design/_dist/PORTRETY-ZELAZO-FINAL-v2-2026-07-23/DYSPOZYCJA-WDROZENIE.md b/docs/ux/claude-design/_dist/PORTRETY-ZELAZO-FINAL-v2-2026-07-23/DYSPOZYCJA-WDROZENIE.md
@@ -1,0 +1,34 @@
+# DYSPOZYCJA — PACZKA „PORTRETY-ZELAZO" · WERSJA FINAL PO KOREKCIE (2026-07-23)
+Odpowiedź na ZLECENIE 6 (część 1/2 — Żelazo; Antyk dojedzie po arkuszu od Macieja).
+**Zawiera wykonaną korektę Macieja: swap Brąz↔Żelazo dla Greków i Chińczyków** — dlatego paczka nadpisuje też
+4 pliki BRĄZU tych dwóch nacji (portrait-{grecy|chinczycy}-braz.png + -braz-full.png). Ta paczka zastępuje
+wcześniejsze PORTRETY-ZELAZO i PORTRETY-SWAP — wgrywać tylko tę.
+
+## Wgranie (Maciej) → `docs/ux/claude-design/01-propozycje-z-design/brand-book/KANON/eksport/`
+| Plik | Uwaga |
+|---|---|
+| `eksport/portraits/portrait-{civ}-zelazo.png` (15×) | medalion 418×418, boki wtopione |
+| `eksport/portraits/portrait-{civ}-zelazo-full.png` (15×) | pełny kadr 251×418 |
+| `eksport/portraits/portrait-{grecy\|chinczycy}-braz.png + -braz-full.png` (4×) | NADPISZ — skutek swapu |
+| `eksport/portraits/medaliony/portrait-{civ}-{epoka}-medalion.png` (45×) | **gotowe okrągłe medaliony ze złotą obwódką 1E** (przezroczyste tło, winieta) — komplet 3 epok, do wstawiania 1:1 w UI |
+| `eksport/portrait-map.json` | NADPISZ — `zelazo` wypełnione, `antyk` dopisany (null) |
+| `eksport/portraits-preview.html` | NADPISZ — 3 rzędy (Kamień/Brąz/Żelazo) |
+| `WYMIANA-UI-DESIGN.md` | NADPISZ (log) |
+
+Commit: `PORTRETY: epoka Żelaza 15 civ + swap Brąz<->Żelazo Grecy/Chińczycy — Zlecenie 6 cz.1 (final)`
+
+## Przypisania (kolejność spec 1–15, arkusz 5×3; poz. 2 = RZYMIANIE — potwierdzone przez Macieja)
+Rząd 1: Grecy (laur) · Rzymianie (czerwona chlamida, złoty pancerz) · Chińczycy (kok z ozdobą) · Inkowie (pióropusz, złote dyski) · Zulusi (nakrycie lamparcie)
+Rząd 2: Egipt (nemes) · Sumer (złota korona, pleciona broda) · Celtowie (niebieskie malowanie, tartan) · Germanie (futro, długie włosy) · Harappa (diadem, kolczyk)
+Rząd 3: Hetyci (rogaty hełm) · Słowianie (malowanie, futro) · Babilonia (złoty kołpak, pleciona broda) · Asyria (stożkowy hełm) · Fenicjanie (purpura)
+
+## Integracja (jak KROK 2 z paczki portretów Kamień/Brąz — bez zmian)
+Wybor wariantu: **medaliony/** = gotowe koło + złota obwódka (neutralna/dyplomacja) — wstawiaj bez CSS;
+kwadraty = surowiec, gdy UI samo rysuje obwódkę kontekstową (niebieską Ty / czerwoną wróg w pre-battle);
+full = karty/większe kadry.
+Wybór portretu wg epoki gracza: zelazo → braz → kamien (fallback w dół); antyk (gdy dojedzie) na szczycie łańcucha.
+Do bundla gry kopie 256×256; oryginały 418 zostają w kanonie. Obwódka medalionu z UI (Ty/wróg/neutralna).
+
+## Status
+Zlecenie 6 cz. 2/2 (ANTYK): czekam na arkusz — potnę 1:1, wypełnię `antyk` w mapie, dołożę 4. rząd preview.
+Pozostałe zlecenia: brak otwartych (1–5, 7 zamknięte; Cuda czekają na werdykt).
